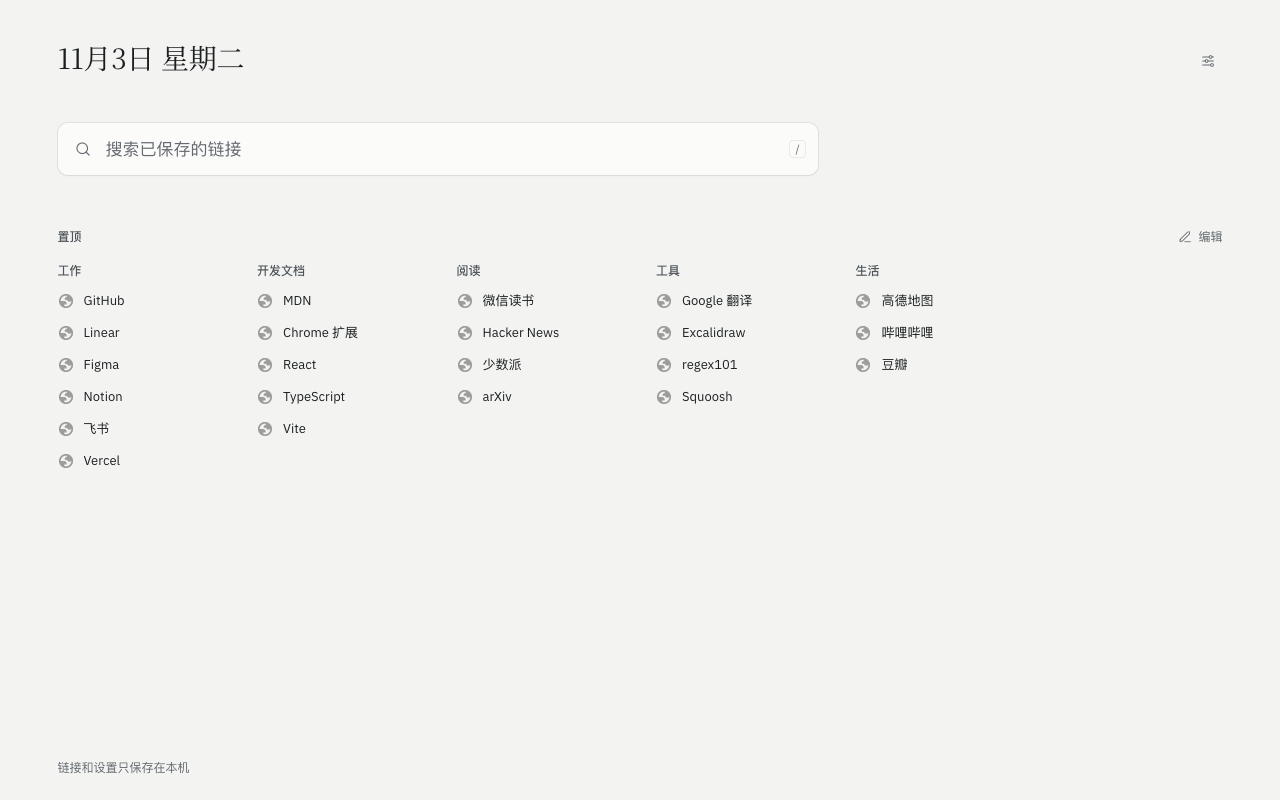
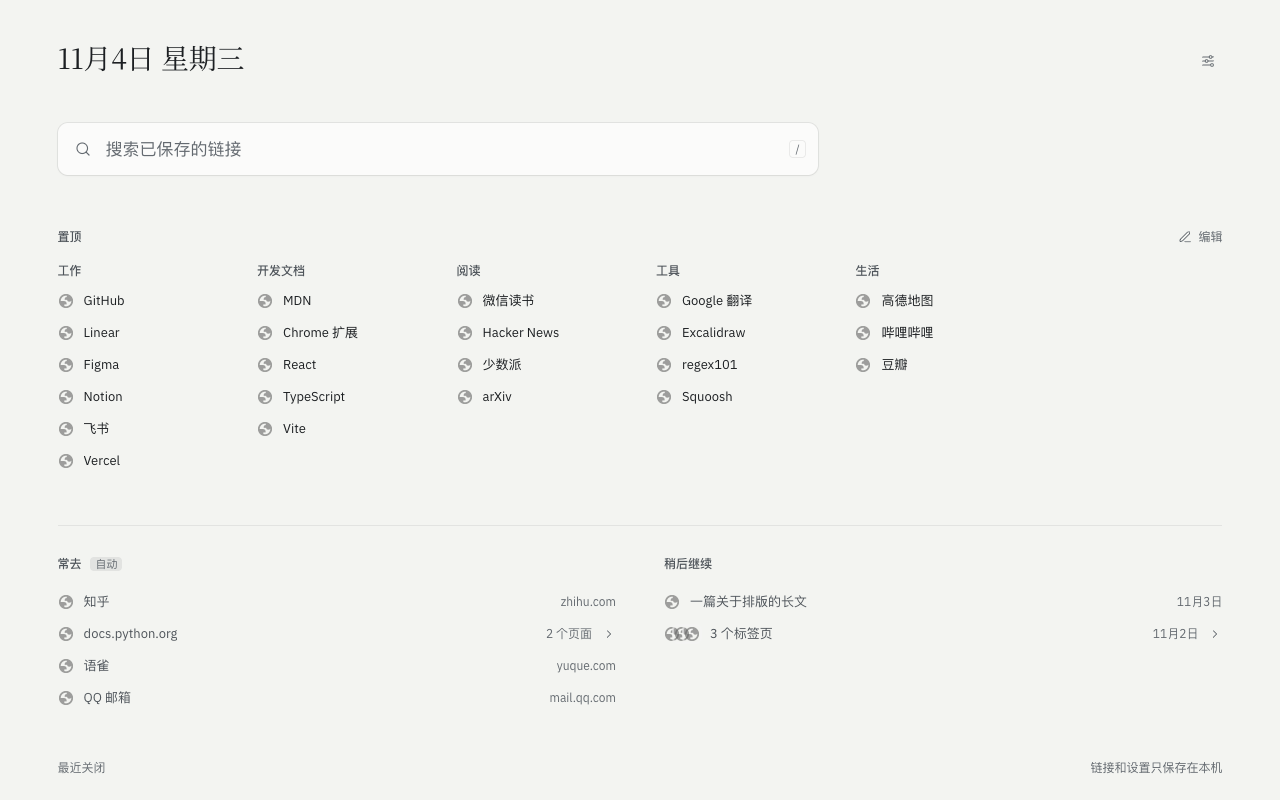
chore: prepare 0.2.0
Bump the version, record 0.2.0 in the changelog, mark 0.1.0 as published
on the Chrome Web Store, and update the store descriptions, single
purpose, and screenshots for frequent pages and Continue later. The
screenshot script now uses the e2e build with stubbed top sites so the
automatic sections appear with synthetic data only.

diff --git a/docs/store-listing.md b/docs/store-listing.md
@@ -5,9 +5,9 @@ Source of truth for the Chrome Web Store submission. Update it with each release
 ## Package
 
 - Build: `npm ci && npm run zip` produces `.output/dayport-<version>-chrome.zip`.
-- Version: `package.json` `version` (currently 0.1.0).
+- Version: `package.json` `version` (currently 0.2.0).
 - Icon: `public/icon/128.png` (from `assets/icon.svg`).
-- Screenshots (1280×800): `assets/store/en/` and `assets/store/zh-CN/`, regenerated with `node scripts/store-screenshots.mjs en|zh-CN` after `npm run build`. They contain only synthetic data.
+- Screenshots (1280×800): `assets/store/en/` and `assets/store/zh-CN/`, regenerated with `node scripts/store-screenshots.mjs en|zh-CN` after `npm run build:e2e`. They contain only synthetic data; frequent pages are stubbed.
 
 ## Store listing
 
@@ -27,11 +27,14 @@ Source of truth for the Chrome Web Store submission. Update it with each release
 >
 > • Grouped links you control: add, rename, reorder by drag or with the keyboard, and undo mistakes.
 > • Find any saved link in a keystroke: press / and type, then Enter.
+> • Frequent pages from Chrome's top sites, and optionally pages you revisit on different days, found by analyzing history on your device. Pin one, hide it, or exclude a whole site.
+> • Continue later: save open tabs from the toolbar button or the page menu, and close them only after they are safely saved. Restore recently closed tabs and windows from the footer.
+> • Import bookmark folders as groups.
 > • Light and dark themes, comfortable or compact density, and quiet monochrome icons that light up on hover.
 > • Back up and restore your links with a versioned file. Imports are previewed and validated before anything changes.
 > • English and Simplified Chinese.
 >
-> Private by design: your links and settings stay in this browser. Dayport has no account, no analytics, and no server, and it makes no network requests of its own. Site icons come from Chrome's local cache.
+> Private by design: your links and settings stay in this browser. Dayport has no account, no analytics, and no server, and it makes no network requests of its own. Site icons come from Chrome's local cache. Top sites, history, bookmarks, and recently closed tabs are read only after you turn each feature on, and never leave your device.
 >
 > Open source under the MIT license: https://github.com/RealisticScorpion/Dayport
 
@@ -41,17 +44,20 @@ Source of truth for the Chrome Web Store submission. Update it with each release
 >
 > • 自己管理的分组链接：添加、改名、拖动或用键盘排序，误删可以撤销。
 > • 一键找到已保存的链接：按 / 输入，回车打开。
+> • 常去推荐：来自 Chrome 的热门网站；也可选择在本机分析历史记录，找出你隔几天就会回访的页面。可以置顶、隐藏，或排除整个网站。
+> • 稍后继续：用工具栏按钮或右键菜单保存打开的标签页，确认保存成功后才关闭。页面底部可恢复最近关闭的标签页和窗口。
+> • 把书签文件夹导入为分组。
 > • 浅色和深色主题、舒适或紧凑密度，图标平时是安静的灰度，悬停时才显示颜色。
 > • 用带版本号的文件备份和恢复链接，导入前会先预览和校验，确认后才会改动。
 > • 支持简体中文和英文。
 >
-> 隐私优先：链接和设置只保存在这个浏览器里。没有账号、没有统计、没有服务器，自身不发起任何网络请求。网站图标来自 Chrome 的本地缓存。
+> 隐私优先：链接和设置只保存在这个浏览器里。没有账号、没有统计、没有服务器，自身不发起任何网络请求。网站图标来自 Chrome 的本地缓存。热门网站、历史记录、书签和最近关闭的标签页只在你启用相应功能后读取，且不会离开本机。
 >
 > 基于 MIT 许可证开源：https://github.com/RealisticScorpion/Dayport
 
 ## Privacy practices tab
 
-- **Single purpose:** Replace the new tab page with a personal, keyboard-friendly index of the user's saved links.
+- **Single purpose:** Replace the new tab page with a personal, keyboard-friendly index of the user's saved links, frequent pages, and tabs saved to continue later.
 - **Permission justification:**
   - `storage`: Saves the user's link groups and settings locally in `chrome.storage.local`.
   - `favicon`: Shows each saved site's icon from Chrome's local favicon cache instead of requesting icons from a remote service.

diff --git a/README.md b/README.md
@@ -11,7 +11,7 @@ A local-first Chrome new tab dashboard for dense navigation, useful widgets, and
 
 ## Project status
 
-**Preview 0.1.0 released ([GitHub release](https://github.com/RealisticScorpion/Dayport/releases/tag/v0.1.0)); Chrome Web Store listing is under review.** The extension runs from the release package or from source in Chrome 120 or newer: grouped links with editing and reordering, keyboard search, settings, and versioned backup import and export. Milestone 2 — frequent pages, bookmark import, Continue later, and recently closed tabs — is on `main` and not yet released. Everything else in the table below is planned. See the [roadmap](docs/roadmap.md) for status.
+**Preview 0.1.0 is published on the Chrome Web Store; 0.2.0 is in preparation.** The extension runs from the release package or from source in Chrome 120 or newer: grouped links with editing and reordering, keyboard search, settings, and versioned backup import and export. Milestone 2 — frequent pages, bookmark import, Continue later, and recently closed tabs — is on `main` and ships in 0.2.0. Everything else in the table below is planned. See the [roadmap](docs/roadmap.md) for status.
 
 ## What Dayport is for
 

diff --git a/README.zh-CN.md b/README.zh-CN.md
@@ -8,7 +8,7 @@
 
 ## 当前状态
 
-**预览版 0.1.0 已发布（[GitHub Release](https://github.com/RealisticScorpion/Dayport/releases/tag/v0.1.0)），Chrome 应用商店上架审核中。** 扩展可从发布包或源码安装到 Chrome 120 及以上版本：分组链接的编辑与排序、键盘搜索、设置，以及带版本号的备份导入导出。里程碑 2（常去推荐、书签导入、稍后继续、最近关闭）已在 `main` 分支完成，尚未发布。下表其余功能仍在计划中，进度见[路线图](docs/roadmap.md)。
+**预览版 0.1.0 已在 Chrome 应用商店上架，0.2.0 准备中。** 扩展可从发布包或源码安装到 Chrome 120 及以上版本：分组链接的编辑与排序、键盘搜索、设置，以及带版本号的备份导入导出。里程碑 2（常去推荐、书签导入、稍后继续、最近关闭）已在 `main` 分支完成，将随 0.2.0 发布。下表其余功能仍在计划中，进度见[路线图](docs/roadmap.md)。
 
 ## 想解决的问题
 

diff --git a/CHANGELOG.md b/CHANGELOG.md
@@ -4,6 +4,10 @@ Notable project changes will be recorded here.
 
 ## Unreleased
 
+## 0.2.0 — 2026-11-04
+
+Milestone 2: rediscover and continue.
+
 ### Added
 
 - Frequent pages from Chrome's top sites, with optional local history analysis for pages revisited on three or more days in two weeks. Pages group by domain; pin to a group, dismiss, or exclude a domain, each with Undo.
@@ -24,7 +28,7 @@ Notable project changes will be recorded here.
 
 ## 0.1.0 — 2026-11-03
 
-First preview release, submitted to the Chrome Web Store for review.
+First preview release, published on the Chrome Web Store.
 
 ### Added
 
